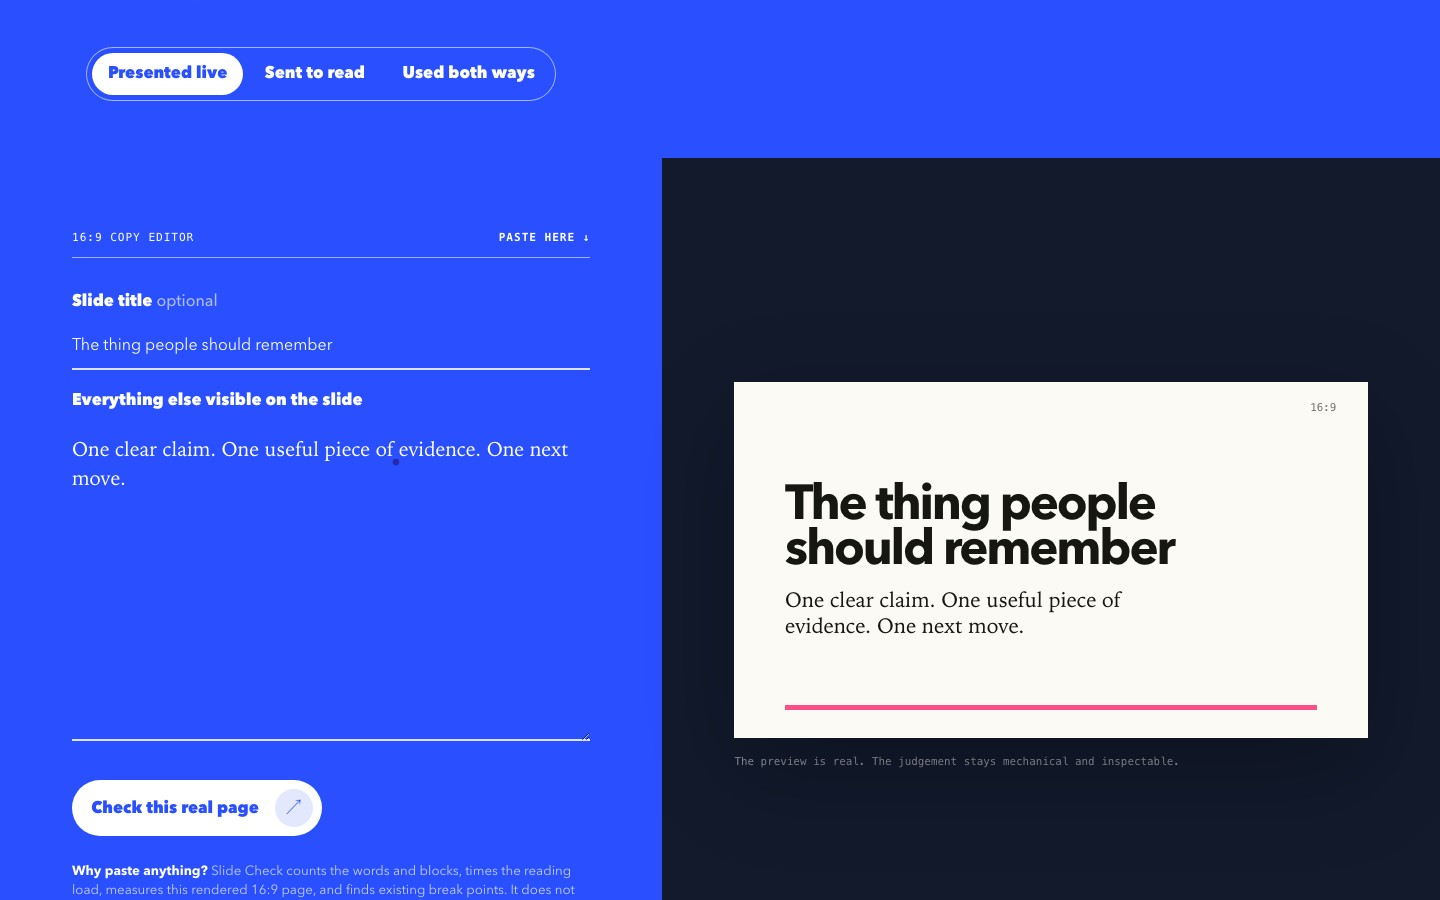
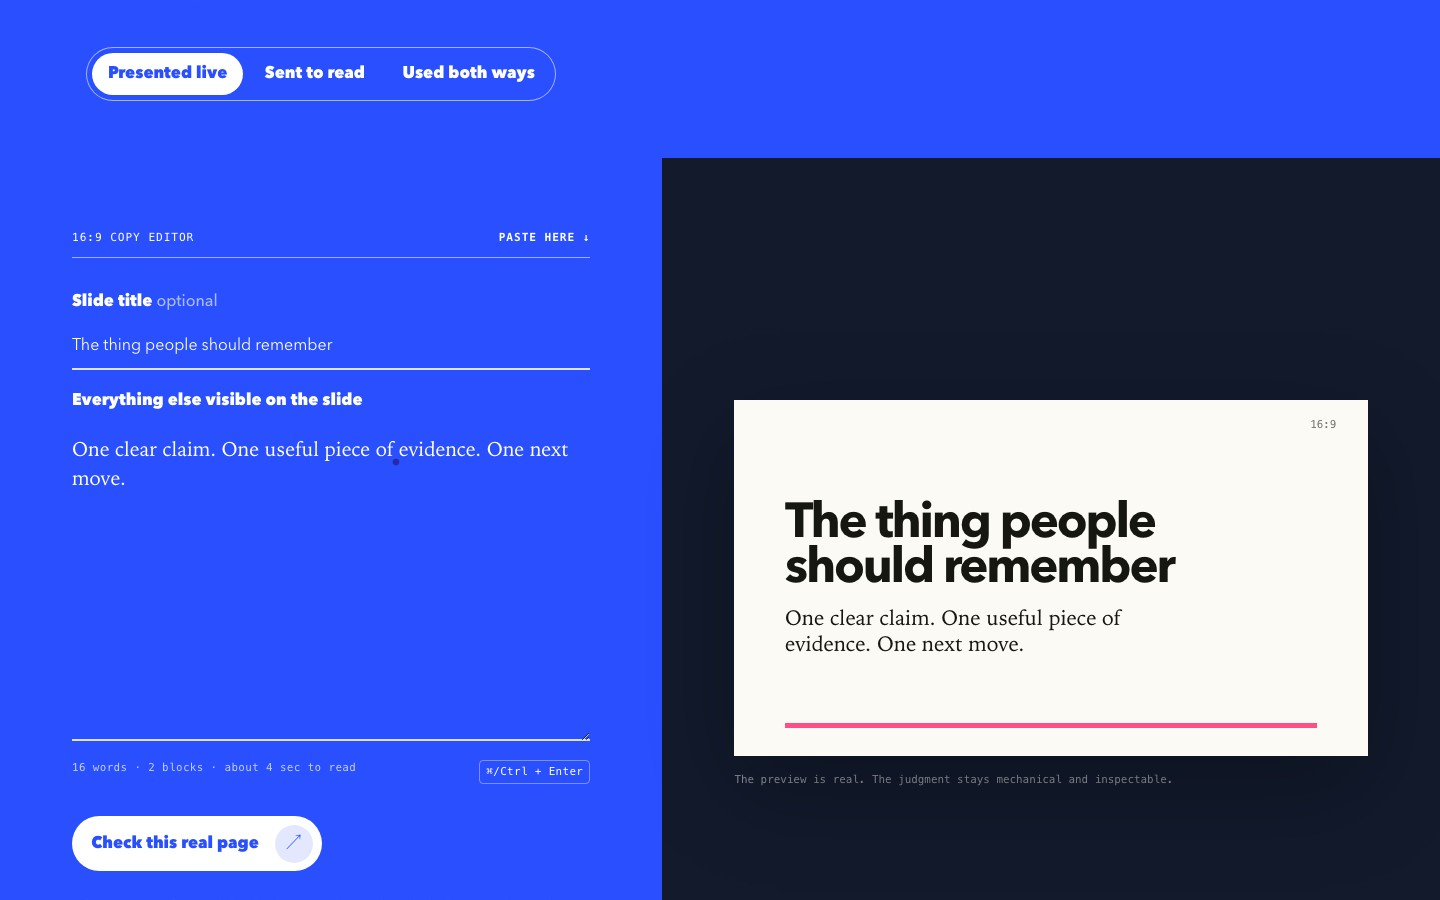
Polish the 1.1.0 slide journey

diff --git a/src/main.ts b/src/main.ts
@@ -1,6 +1,7 @@
 import "./styles.css";
 import { buildResult } from "./analyse.ts";
 import { measureSlide } from "./measure.ts";
+import { analyseText, estimateReadingTime } from "../engine/one-slide-or-three/index.ts";
 import { ARTEFACTS, CONSTRAINTS, FAMILIARITY, JOBS, LANES, LAYOUTS, MODES, RELATIONS, SETTINGS, TIMES } from "./content.ts";
 import type { AppState, ExpertAnswers, Ride } from "./types.ts";
 import {
@@ -118,7 +119,7 @@ function flowPage(): string {
         <p class="scope-tag">Slide Check · expert mode</p><p class="kicker">${step.kicker}</p>
         <h1 data-page-heading tabindex="-1">${step.question}</h1><p>${step.note}</p>
       </div>
-      <div class="answers-panel"><div class="answers-inner">${choiceGrid(step.choices, step.multiple ? "multi-choice" : "flow-choice", selected, selectedMany)}${step.multiple ? '<button class="primary-action multi-continue" id="multi-continue" type="button">Keep going <span aria-hidden="true">↗</span></button>' : ""}</div></div>
+      <div class="answers-panel"><div class="answers-inner"><p class="answers-instruction">${step.multiple ? "Pick any real constraints. You can leave the lot alone." : "Pick the closest truth. You can go back."}</p>${choiceGrid(step.choices, step.multiple ? "multi-choice" : "flow-choice", selected, selectedMany)}${step.multiple ? '<button class="primary-action multi-continue" id="multi-continue" type="button">Keep going <span aria-hidden="true">↗</span></button>' : ""}</div></div>
     </div>
   </section>`;
 }
@@ -144,10 +145,11 @@ function editorPage(): string {
         <input id="slide-title" value="${escapeHTML(state.draft.title)}" placeholder="For example: Why this, why now">
         <label for="slide-copy">Everything else visible on the slide</label>
         <textarea id="slide-copy" rows="10" placeholder="Paste the body, labels, quote, and source people must read…">${escapeHTML(state.draft.copy)}</textarea>
+        <output class="live-load" aria-label="Current measurable slide load"><span id="live-load">${copyLoadText()}</span><kbd>⌘/Ctrl + Enter</kbd></output>
         <button class="primary-action" id="check-slide" type="button">Check this real page <span aria-hidden="true">↗</span></button>
         <p class="input-truth"><strong>Why paste anything?</strong> Slide Check counts the words and blocks, times the reading load, measures this rendered 16:9 page, and finds existing break points. It does not understand your secret intention or grade the idea.</p>
       </div>
-      <div class="preview-stage" id="preview-stage">${preview(state.draft.title, state.draft.copy)}<p>The preview is real. The judgement stays mechanical and inspectable.</p></div>
+      <div class="preview-stage" id="preview-stage">${preview(state.draft.title, state.draft.copy)}<p>The preview is real. The judgment stays mechanical and inspectable.</p></div>
     </div>
   </section>`;
 }
@@ -167,6 +169,17 @@ function labelFor(choices: readonly Choice[], value?: string): string | undefine
 
 function preview(title: string, copy: string): string {
   return `<div class="slide-preview" aria-label="Real 16 by 9 slide preview"><span>16:9</span>${title ? `<h2>${escapeHTML(title)}</h2>` : ""}<p>${escapeHTML(copy || "Your slide, with room to breathe.")}</p><i aria-hidden="true"></i></div>`;
+}
+
+function copyLoadText(): string {
+  const locale = navigator.language || document.documentElement.lang || "en-US";
+  const metrics = analyseText({ title: state.draft.title || undefined, body: state.draft.copy }, locale);
+  if (!metrics.visibleWordCount) return "Waiting for one real slide.";
+  const reading = estimateReadingTime(metrics.timedWordCount, { tag: locale });
+  const blocks = `${metrics.explicitBlockCount} ${metrics.explicitBlockCount === 1 ? "block" : "blocks"}`;
+  return typeof reading.seconds === "number"
+    ? `${metrics.visibleWordCount} words · ${blocks} · about ${Math.max(1, Math.round(reading.seconds))} sec to read`
+    : `${metrics.visibleWordCount} words · ${blocks} · timing needs a local read`;
 }
 
 function resultPage(): string {
@@ -214,6 +227,9 @@ function setExpert(key: keyof ExpertAnswers, value: string): void {
 }
 
 function bindEvents(): void {
+  document.querySelector(".brand")?.addEventListener("click", (event) => {
+    event.preventDefault(); state.phase = "landing"; state.ride = undefined; state.result = undefined; save(); render();
+  });
   document.querySelectorAll<HTMLButtonElement>("[data-ride]").forEach((button) => button.addEventListener("click", () => {
     state.ride = button.dataset.ride as Ride;
     state.phase = state.ride === "expert" ? "flow" : "editor";
@@ -256,8 +272,9 @@ function bindEvents(): void {
   }));
   const titleInput = document.querySelector<HTMLInputElement>("#slide-title");
   const copyInput = document.querySelector<HTMLTextAreaElement>("#slide-copy");
-  titleInput?.addEventListener("input", () => { state.draft.title = titleInput.value; state.result = undefined; save(); updatePreview(); });
-  copyInput?.addEventListener("input", () => { state.draft.copy = copyInput.value; state.result = undefined; save(); copyInput.removeAttribute("aria-invalid"); document.querySelector("#copy-error")?.remove(); updatePreview(); });
+  titleInput?.addEventListener("input", () => { state.draft.title = titleInput.value; state.result = undefined; save(); updatePreview(); updateCopyLoad(); });
+  copyInput?.addEventListener("input", () => { state.draft.copy = copyInput.value; state.result = undefined; save(); copyInput.removeAttribute("aria-invalid"); document.querySelector("#copy-error")?.remove(); document.querySelector("#measurement-error")?.remove(); updatePreview(); updateCopyLoad(); });
+  copyInput?.addEventListener("keydown", (event) => { if (event.key === "Enter" && (event.metaKey || event.ctrlKey)) { event.preventDefault(); void checkSlide(); } });
   document.querySelector("#check-slide")?.addEventListener("click", () => void checkSlide());
   document.querySelector("#edit-slide")?.addEventListener("click", () => { state.phase = "editor"; state.result = undefined; save(); render(); });
   document.querySelector("#go-expert")?.addEventListener("click", () => { state.ride = "expert"; state.phase = "flow"; state.step = 0; state.result = undefined; state.expert = { constraints: [] }; save(); render(); });
@@ -277,9 +294,16 @@ function updatePreview(): void {
   if (copy) copy.textContent = state.draft.copy.trim() || "Your slide, with room to breathe.";
 }
 
+function updateCopyLoad(): void {
+  const output = document.querySelector<HTMLElement>("#live-load");
+  if (output) output.textContent = copyLoadText();
+}
+
 async function checkSlide(): Promise<void> {
   const copyInput = document.querySelector<HTMLTextAreaElement>("#slide-copy");
   const copy = copyInput?.value.trim() ?? state.draft.copy.trim();
+  document.querySelector("#copy-error")?.remove();
+  document.querySelector("#measurement-error")?.remove();
   if (!copy) {
     copyInput?.setAttribute("aria-invalid", "true");
     const error = document.createElement("p");
@@ -289,14 +313,18 @@ async function checkSlide(): Promise<void> {
   state.draft.copy = copy;
   state.draft.title = document.querySelector<HTMLInputElement>("#slide-title")?.value.trim() ?? state.draft.title.trim();
   const button = document.querySelector<HTMLButtonElement>("#check-slide");
-  if (button) { button.disabled = true; button.textContent = "Measuring the real page…"; }
+  if (button) { button.disabled = true; button.setAttribute("aria-busy", "true"); button.textContent = "Measuring the real page…"; }
   try {
     const measurement = await measureSlide(state.draft.title, state.draft.copy);
     state.result = buildResult(state, measurement);
     state.phase = "result";
     save(); render(); announce(state.result.headline);
   } catch {
-    if (button) { button.disabled = false; button.innerHTML = 'Try the check again <span aria-hidden="true">↗</span>'; }
+    if (button) {
+      button.disabled = false; button.removeAttribute("aria-busy"); button.innerHTML = 'Try the check again <span aria-hidden="true">↗</span>';
+      const error = document.createElement("p"); error.id = "measurement-error"; error.className = "input-error"; error.setAttribute("role", "alert"); error.textContent = "The preview missed its cue. Your copy is safe—try once more.";
+      button.insertAdjacentElement("afterend", error);
+    }
     announce("The preview missed its cue. Your copy is safe—try once more.");
   }
 }
@@ -304,7 +332,10 @@ async function checkSlide(): Promise<void> {
 function resultMarkdown(): string {
   const result = state.result;
   if (!result) return "# Slide Check\n\nNo result yet.\n";
-  return `# ${result.headline}\n\n${result.body}\n\n## The page in numbers\n\n- Words: ${result.raw.metrics.visibleWordCount}\n- Text blocks: ${result.raw.metrics.explicitBlockCount}\n- Reading: ${typeof result.raw.readingTime.seconds === "number" ? `${Math.max(1, Math.round(result.raw.readingTime.seconds))} seconds` : "Context needed"}\n- Physical fit: ${humanFit(result.raw.checks.physicalFit)}\n\n## What the tool did not judge\n\nTruth, taste, originality, persuasion, and whether the idea has soul.\n`;
+  const context = result.context.length ? `\n\n## What the expert context changed\n\n${result.context.map((item) => `- ${item}`).join("\n")}` : "";
+  const craft = result.craft.length ? `\n\n## Transparent craft check\n\n${result.craft.map((item) => `- **${item.label}:** ${item.detail}`).join("\n")}` : "";
+  const checkedSlide = `## Checked slide\n\n${state.draft.title ? `**Title:** ${state.draft.title}\n\n` : ""}${state.draft.copy}`;
+  return `# ${result.headline}\n\n${result.body}\n\n${checkedSlide}\n\n## The page in numbers\n\n- Words: ${result.raw.metrics.visibleWordCount}\n- Text blocks: ${result.raw.metrics.explicitBlockCount}\n- Reading: ${typeof result.raw.readingTime.seconds === "number" ? `${Math.max(1, Math.round(result.raw.readingTime.seconds))} seconds` : "Context needed"}\n- Physical fit: ${humanFit(result.raw.checks.physicalFit)}${context}${craft}\n\n## Assumptions and limits\n\n${result.raw.limitations.map((item) => `- ${item}`).join("\n")}\n\n## What the tool did not judge\n\nTruth, taste, originality, persuasion, and whether the idea has soul.\n\nGenerated locally by Slide Check from pitch.dog.\n`;
 }
 
 initialiseThreadCursor();

diff --git a/tests/product.test.ts b/tests/product.test.ts
@@ -48,3 +48,20 @@ test("the interface explains why copy is required", () => {
   assert.match(source, /counts the words and blocks/i);
   assert.doesNotMatch(source, /Keep this answer|Clear this case|Are you in danger|shared device/i);
 });
+
+test("the editor shows live measurable load and fails visibly without duplicate errors", () => {
+  const source = readFileSync("src/main.ts", "utf8");
+  assert.match(source, /Current measurable slide load/);
+  assert.match(source, /analyseText/);
+  assert.match(source, /event\.metaKey \|\| event\.ctrlKey/);
+  assert.match(source, /document\.querySelector\("#copy-error"\)\?\.remove\(\);[\s\S]*if \(!copy\)/);
+  assert.match(source, /measurement-error/);
+});
+
+test("theme labels and the product home route remain truthful after state changes", () => {
+  const ui = readFileSync("src/ui.ts", "utf8");
+  const source = readFileSync("src/main.ts", "utf8");
+  assert.match(ui, /setAttribute\("aria-label"/);
+  assert.match(ui, /Switch to/);
+  assert.match(source, /querySelector\("\.brand"\)[\s\S]*state\.phase = "landing"/);
+});

diff --git a/src/base.css b/src/base.css
@@ -49,7 +49,8 @@ body {
 ::selection { background: var(--pink); color: #10110e; }
 button, input, textarea, select { font: inherit; color: inherit; }
 button { cursor: pointer; }
-button:disabled { cursor: wait; opacity: 0.58; }
+button:disabled { cursor: not-allowed; opacity: 0.58; }
+button[aria-busy="true"] { cursor: progress; }
 a { color: inherit; }
 img { display: block; max-width: 100%; }
 h1, h2, h3, p { margin-top: 0; }
@@ -286,6 +287,7 @@ h1[tabindex="-1"]:focus { outline: none; }
 }
 .question-art img { aspect-ratio: 3 / 2; object-fit: cover; }
 .answers-panel { display: flex; align-items: center; padding: clamp(1.25rem, 4vw, 4rem); background: color-mix(in srgb, var(--paper) 72%, var(--bg)); box-shadow: inset 1px 0 var(--line); }
+.answers-instruction { margin: 0 0 1rem; color: var(--muted); font-family: var(--serif); font-size: 0.98rem; }
 .answer-grid { display: grid; grid-template-columns: repeat(2, minmax(0, 1fr)); gap: 0.8rem; width: 100%; }
 .answer-card {
   position: relative;

diff --git a/src/ui.ts b/src/ui.ts
@@ -76,6 +76,10 @@ export function bindTheme(storageKey: string): void {
     document.documentElement.dataset.theme = theme;
     document.documentElement.dataset.themeSource = source;
     document.querySelector<HTMLMetaElement>('meta[name="theme-color"]')?.setAttribute("content", theme === "dark" ? "#0d0e0c" : "#f3f2ed");
+    const toggle = document.querySelector<HTMLButtonElement>("#theme-toggle");
+    const next = theme === "dark" ? "light" : "dark";
+    toggle?.setAttribute("aria-label", `Switch to ${next} theme`);
+    toggle?.setAttribute("title", `Switch to ${next} theme`);
   };
   if (!themeSystemBound) {
     system.addEventListener("change", (event) => {

diff --git a/src/styles.css b/src/styles.css
@@ -39,6 +39,8 @@ body { --hero-position: 50% 50%; }
 .copy-panel .primary-action span { background: color-mix(in srgb, var(--cobalt) 13%, white); color: var(--cobalt); }
 .input-truth { max-width: 38rem; margin-top: 1.6rem; color: rgb(255 255 255 / 0.72); font-size: 0.83rem; }
 .input-truth strong { color: #fff; }
+.live-load { display: flex; flex-wrap: wrap; justify-content: space-between; gap: .6rem 1rem; margin-top: .75rem; color: rgb(255 255 255 / .72); font-family: var(--mono); font-size: .68rem; letter-spacing: .035em; }
+.live-load kbd { padding: .18rem .38rem; border: 1px solid rgb(255 255 255 / .38); border-radius: .25rem; color: #fff; font: inherit; white-space: nowrap; }
 .input-error { margin-top: 0.6rem; padding: 0.7rem; background: var(--acid); color: #10110e; font-weight: 760; }
 .copy-panel [aria-invalid="true"] { box-shadow: inset 0 -4px var(--acid); }
 

diff --git a/CHANGELOG.md b/CHANGELOG.md
@@ -1,5 +1,13 @@
 # Changelog
 
+## 1.1.0 — 2026-07-20
+
+- Added a quiet live readout for words, blocks, and estimated reading time while the slide is being edited.
+- Added Command/Control + Enter checking, visible measurement failures, and duplicate-error protection.
+- Made the logo route home reliably and kept the theme toggle’s accessible name truthful after every change.
+- Expanded downloaded verdicts to include the checked copy, expert context, craft observations, and limitations.
+- Refreshed the public journey image and regression coverage.
+
 ## 1.0.0 — 2026-07-20
 
 - Released Slide Check as an independent, local-first tool.

diff --git a/docs/PRODUCT-CONTRACT.md b/docs/PRODUCT-CONTRACT.md
@@ -15,9 +15,11 @@ Help someone decide whether the visible copy on one real slide can remain one pa
 
 - one primary verdict: keep one, edit, or split;
 - measured copy and block counts;
+- a quiet live copy-load readout before submission;
 - a real 16:9 preview and physical-fit status;
 - plain reasons, limits, and next moves;
-- suggested split boundaries only where a mechanical boundary exists.
+- suggested split boundaries only where a mechanical boundary exists;
+- an explicit local download containing the checked copy, context, observations, and limits.
 
 ## Boundaries
 

diff --git a/LEARNINGS.md b/LEARNINGS.md
@@ -4,3 +4,6 @@
 - A rendered 16:9 preview tells the truth that word-count advice cannot.
 - Quick and expert routes should share one result model, not become two products.
 - Split boundaries can be detected mechanically; meaningful coherence still belongs to a person.
+- Live feedback earns its place when it reveals the exact measurement the result will later use.
+- A failure message belongs beside the failed action; an invisible announcement is not enough.
+- “Home” must change product state, not merely reload the same saved screen.

diff --git a/README.md b/README.md
@@ -10,6 +10,8 @@
 
 Paste the visible words from a 16:9 slide. Slide Check measures the load it can actually measure, renders the page, then recommends **keep one**, **edit**, or **split**. It does not pretend to judge whether your idea is brilliant.
 
+The editor shows the measurable load as you work, supports Command/Control + Enter, and downloads the checked copy with the reasoning and limits—not a context-free verdict.
+
 [![Verify](https://github.com/bomkino/pitchdog-slide-check/actions/workflows/ci.yml/badge.svg)](https://github.com/bomkino/pitchdog-slide-check/actions/workflows/ci.yml)
 
 <p align="center">